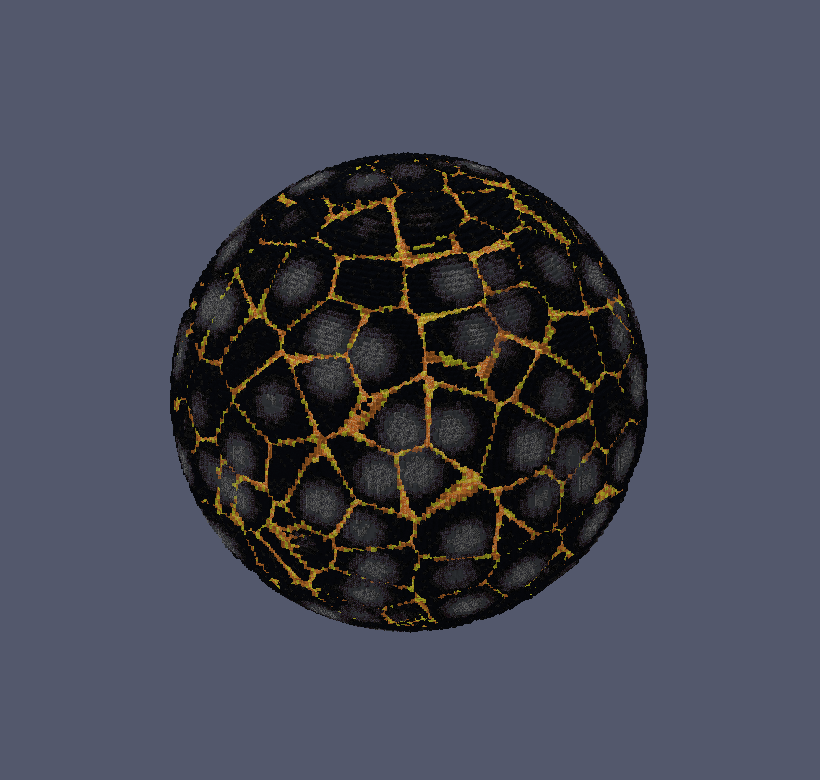
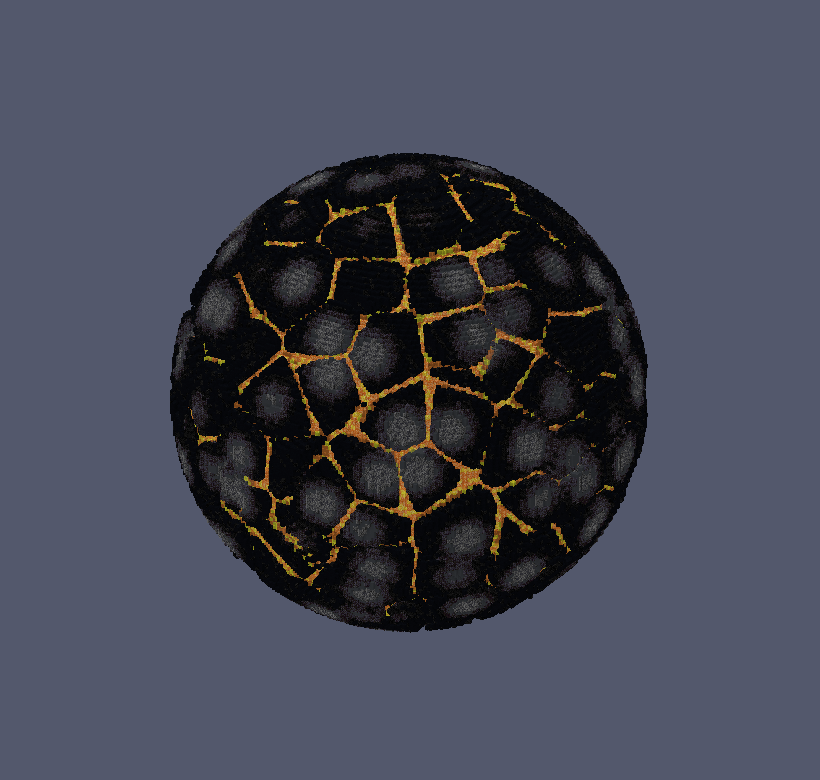
media: recessed lava rivers + slope (normal) painting
- planet: carve the crack grooves deeper (inset 1 -> 3) so the lava rivers sit
  below the raised cell plates, and widen them so the recessed glow still reads.
- slope-paint: a landscape painted by the surface normal (the gradient of the
  height field, i.e. what an SDF exposes): flat -> grass, steepening -> coarse
  dirt -> bare stone, snow on the flat peaks. Demonstrates the normal as a
  paintable input alongside position and depth. README terrain section + snippet
  21 updated.

diff --git a/tools/readme-media/generate.py b/tools/readme-media/generate.py
@@ -2372,7 +2372,9 @@ def scene_voronoi_planet(pack):
       at the core, showing through the cracks."""
     R = 60
     freq, seed = 0.06, 4
-    crust, inset, glass, crack_w, f1_rim = 14.0, 1.0, 2.0, 1.5, 8.0
+    # inset carves the crack down: the lava rivers sit this many blocks below the
+    # raised cell plates before the glass shell and emitters begin.
+    crust, inset, glass, crack_w, f1_rim = 14.0, 3.0, 2.0, 2.0, 8.0
     cells = {"frequency": freq, "seed": seed, "jitter": 1.0}
     f1_field = json.dumps({"type": "cells", "mode": "f1", **cells})
     crack_field = json.dumps({"type": "cells", "mode": "f2MinusF1", **cells})
@@ -2423,6 +2425,46 @@ def scene_voronoi_planet(pack):
                 s.set_block(x, y, z, block)
     render(s, pack, os.path.join(OUT, "voronoi-planet.png"), w=820, h=780,
            yaw=32, pitch=26, zoom=1.16, sphere_fit=True, background=NAVY)
+    return s
+
+
+def scene_slope(pack):
+    """Painting by the surface normal. On a landscape, flat ground (normal facing
+    up) takes grass, steepening slopes take coarse dirt then bare stone, and the
+    flat high ground catches snow. The normal here is the gradient of the height
+    field, which is exactly the quantity an SDF exposes at any surface, so the
+    same slope-aware rule generalizes past a heightmap to any shape."""
+    import math
+    W = 112
+
+    def height(x, z):
+        h = 17.0 * math.sin(x * 0.042) * math.cos(z * 0.038)      # broad gentle rolls
+        h += 5.0 * math.sin(x * 0.10 + 1.7) * math.sin(z * 0.085)  # medium
+        h += 1.5 * math.cos(x * 0.23) * math.cos(z * 0.26 + 0.5)   # fine
+        return h
+
+    hmap = [[height(x, z) for z in range(W)] for x in range(W)]
+    s = nu.Schematic.create("terrain")
+    for x in range(1, W - 1):
+        for z in range(1, W - 1):
+            h = hmap[x][z]
+            top = round(h)
+            dx = hmap[x + 1][z] - hmap[x - 1][z]
+            dz = hmap[x][z + 1] - hmap[x][z - 1]
+            ny = 2.0 / math.sqrt(dx * dx + dz * dz + 4.0)     # normal.y: 1 flat, ->0 vertical
+            if ny > 0.86:                                     # flat: soil (snow when high)
+                surf = "minecraft:snow_block" if h > 16 else "minecraft:grass_block"
+                sub = "minecraft:dirt"
+            elif ny > 0.72:                                   # gentle: patchy dirt
+                surf = "minecraft:coarse_dirt"
+                sub = "minecraft:dirt"
+            else:                                             # steep: bare rock
+                surf = "minecraft:stone"
+                sub = "minecraft:stone"
+            s.fill_cuboid(x, top - 5, z, x, top - 1, z, sub)
+            s.set_block(x, top, z, surf)
+    render(s, pack, os.path.join(OUT, "slope-paint.png"), w=1100, h=680,
+           yaw=210, pitch=38, zoom=1.3, sphere_fit=True, background=NAVY)
     return s
 
 
@@ -2904,6 +2946,7 @@ SCENES = {
     "voronoi": scene_voronoi,
     "planet": scene_voronoi_planet,
     "fracture-paint": scene_fracture_paint,
+    "slope": scene_slope,
     "dither": scene_dither,
     "scripting": scene_scripting,
     "simulation": scene_simulation,

diff --git a/README.md b/README.md
@@ -246,6 +246,15 @@ through tuff to andesite, with the lava pool sitting in the crater.
 <img src="https://raw.githubusercontent.com/Schem-at/Nucleation/master/docs/media/cross-section.png" width="720" alt="The volcano island sliced through the crater, exposing the lava pool and the stone strata inside">
 </div>
 
+Materials can also key on the **surface normal**, not just height and depth. The
+normal is the gradient of the surface, which an SDF gives you directly, so a
+landscaping rule paints by slope: flat ground takes grass, steepening slopes take
+coarse dirt then bare stone, and the flat peaks catch snow.
+
+<div align="center">
+<img src="https://raw.githubusercontent.com/Schem-at/Nucleation/master/docs/media/slope-paint.png" width="760" alt="A rolling landscape painted by slope: grass on the flats, coarse dirt on the inclines, bare stone on the steepest faces, snow on the high flats">
+</div>
+
 ## Voxelize 3D models
 
 Real 3D models become schematics: GLB (node transforms, embedded textures) and

diff --git a/docs/readme-snippets/21-voronoi-planet-python.md b/docs/readme-snippets/21-voronoi-planet-python.md
@@ -12,7 +12,7 @@ import json, math
 from nucleation import Schematic, Palette, Sdf
 
 R, freq, seed = 60, 0.06, 4
-crust, inset, glass, crack_w, f1_rim = 14.0, 1.0, 2.0, 1.5, 8.0
+crust, inset, glass, crack_w, f1_rim = 14.0, 3.0, 2.0, 2.0, 8.0  # inset = river depth
 cells = {"frequency": freq, "seed": seed, "jitter": 1.0}
 f1_field    = json.dumps({"type": "cells", "mode": "f1",        **cells})
 crack_field = json.dumps({"type": "cells", "mode": "f2MinusF1", **cells})
@@ -72,7 +72,7 @@ print("planet:", (dim.x, dim.y, dim.z), "blocks:", s.block_count())
 Output:
 
 ```text
-planet: (119, 120, 121) blocks: 891063
+planet: (119, 120, 121) blocks: 855272
 ```
 
 The pieces are independent knobs: swap `f1` for `f2` to shade toward the